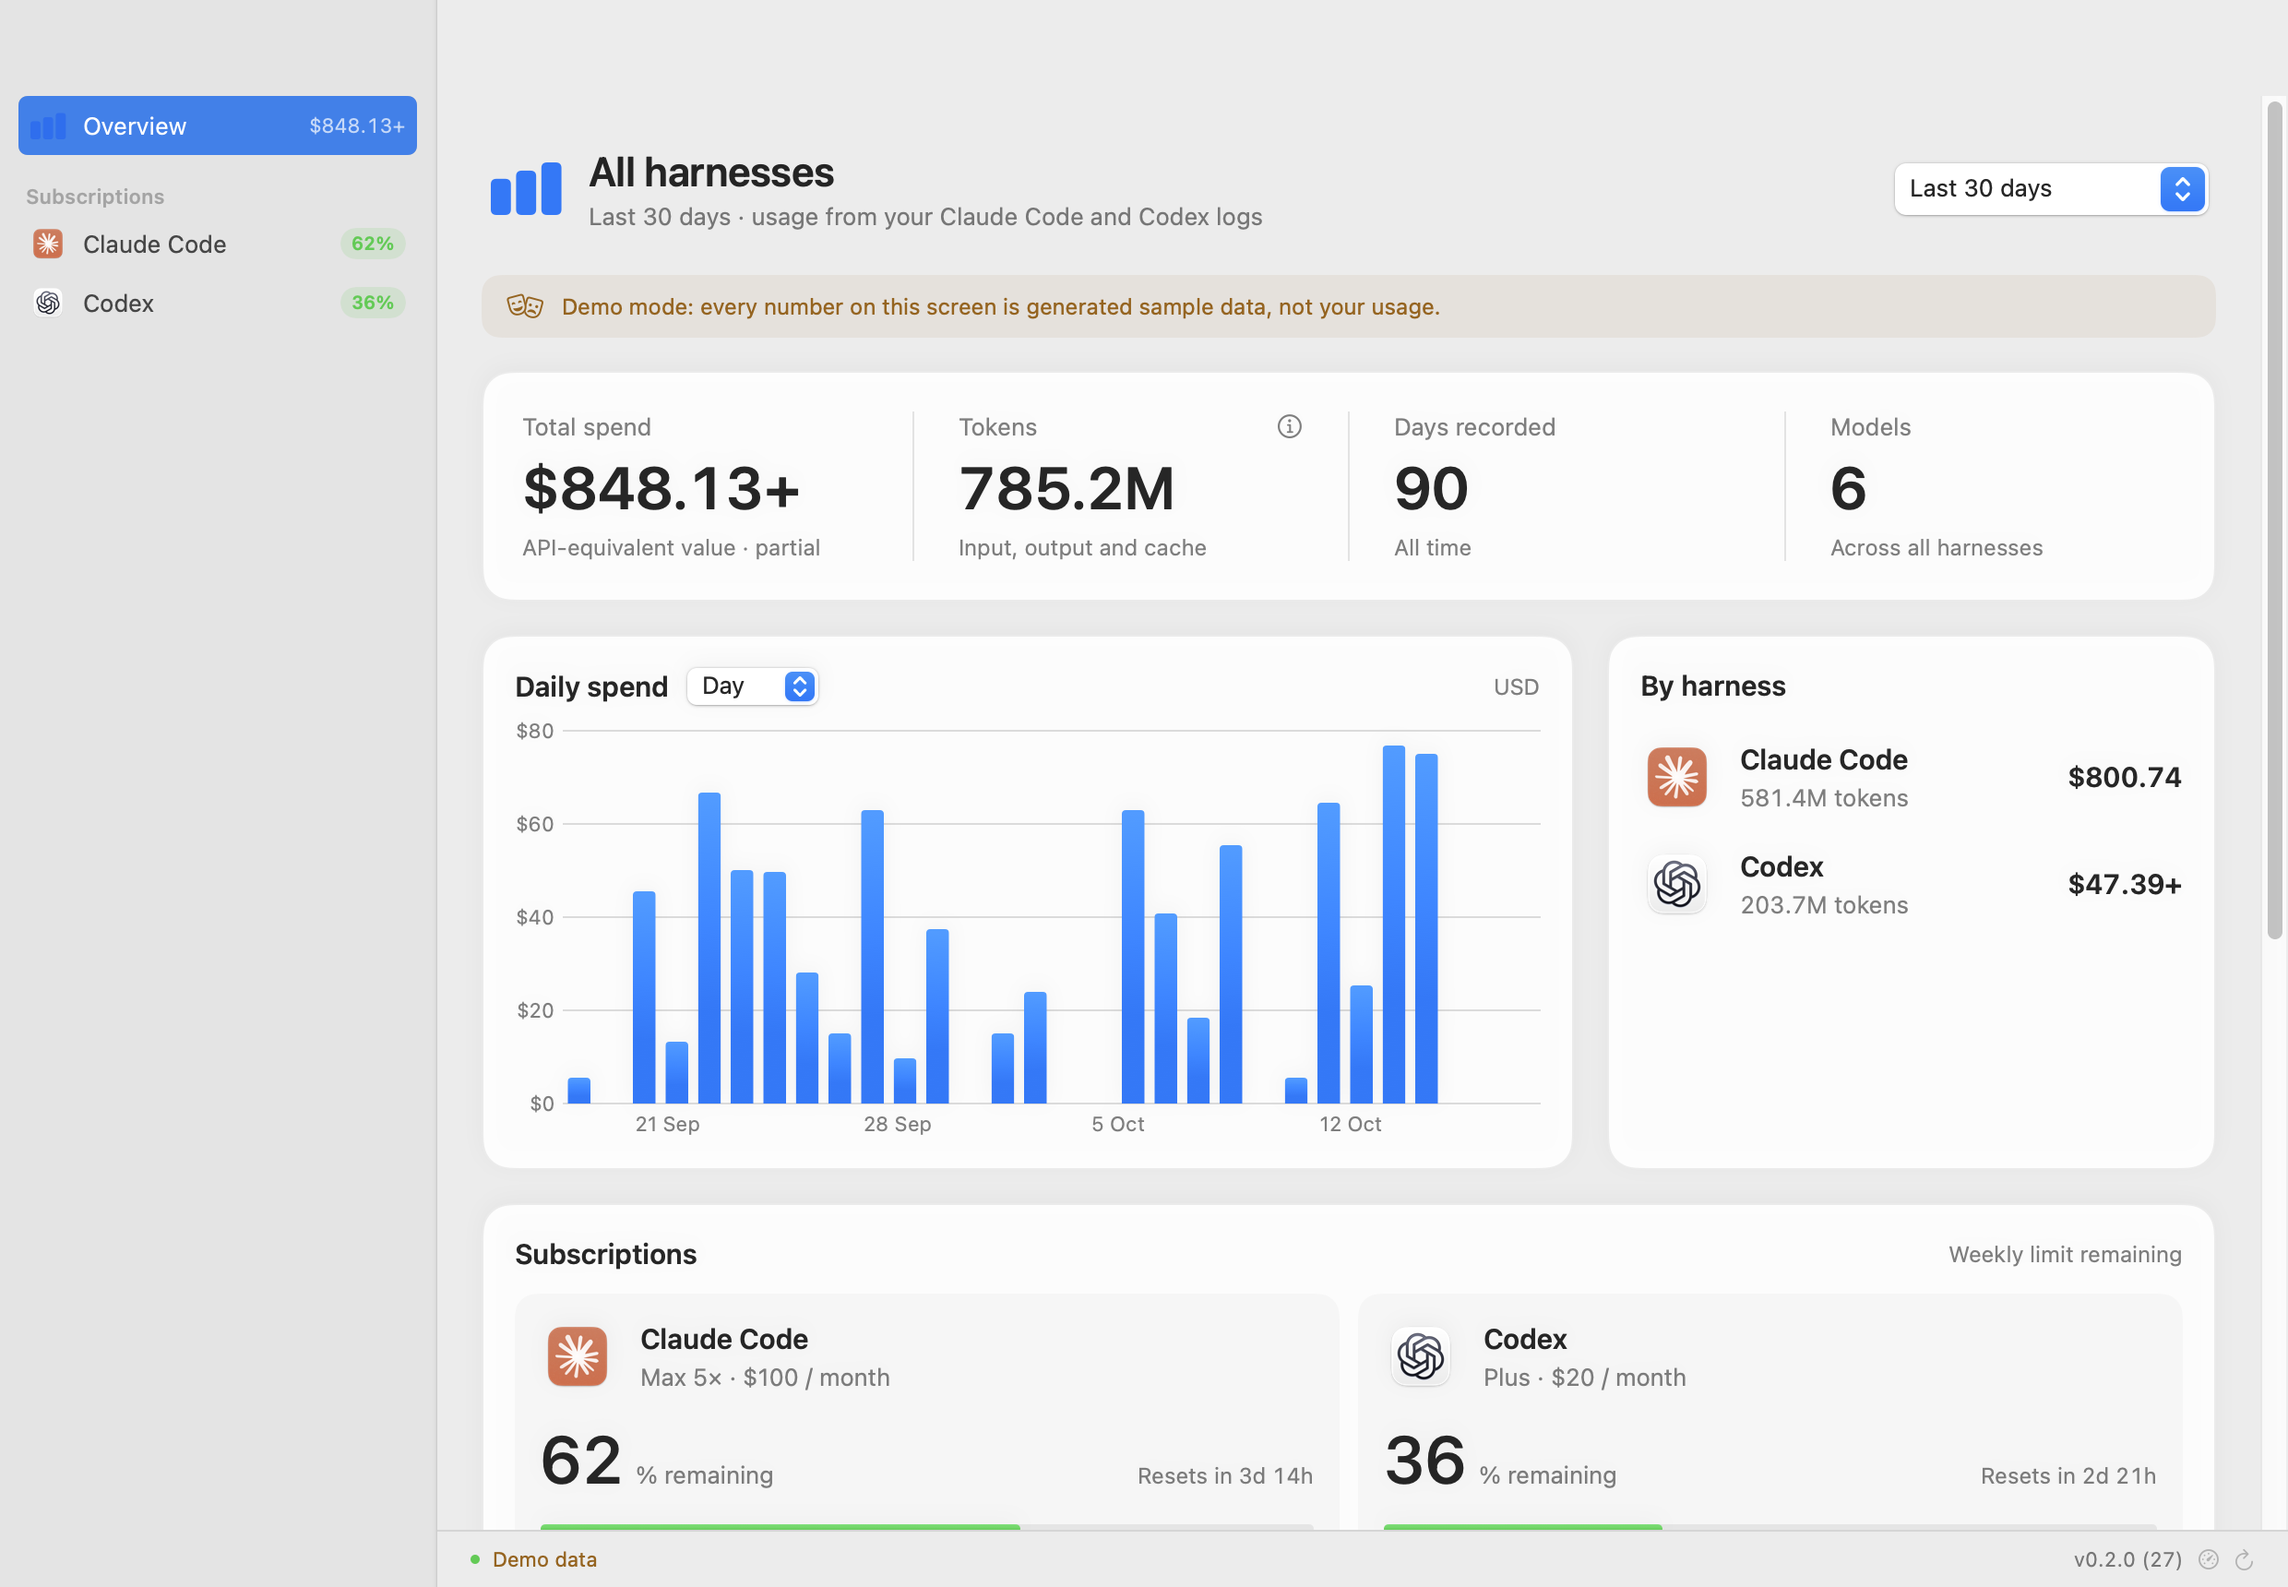
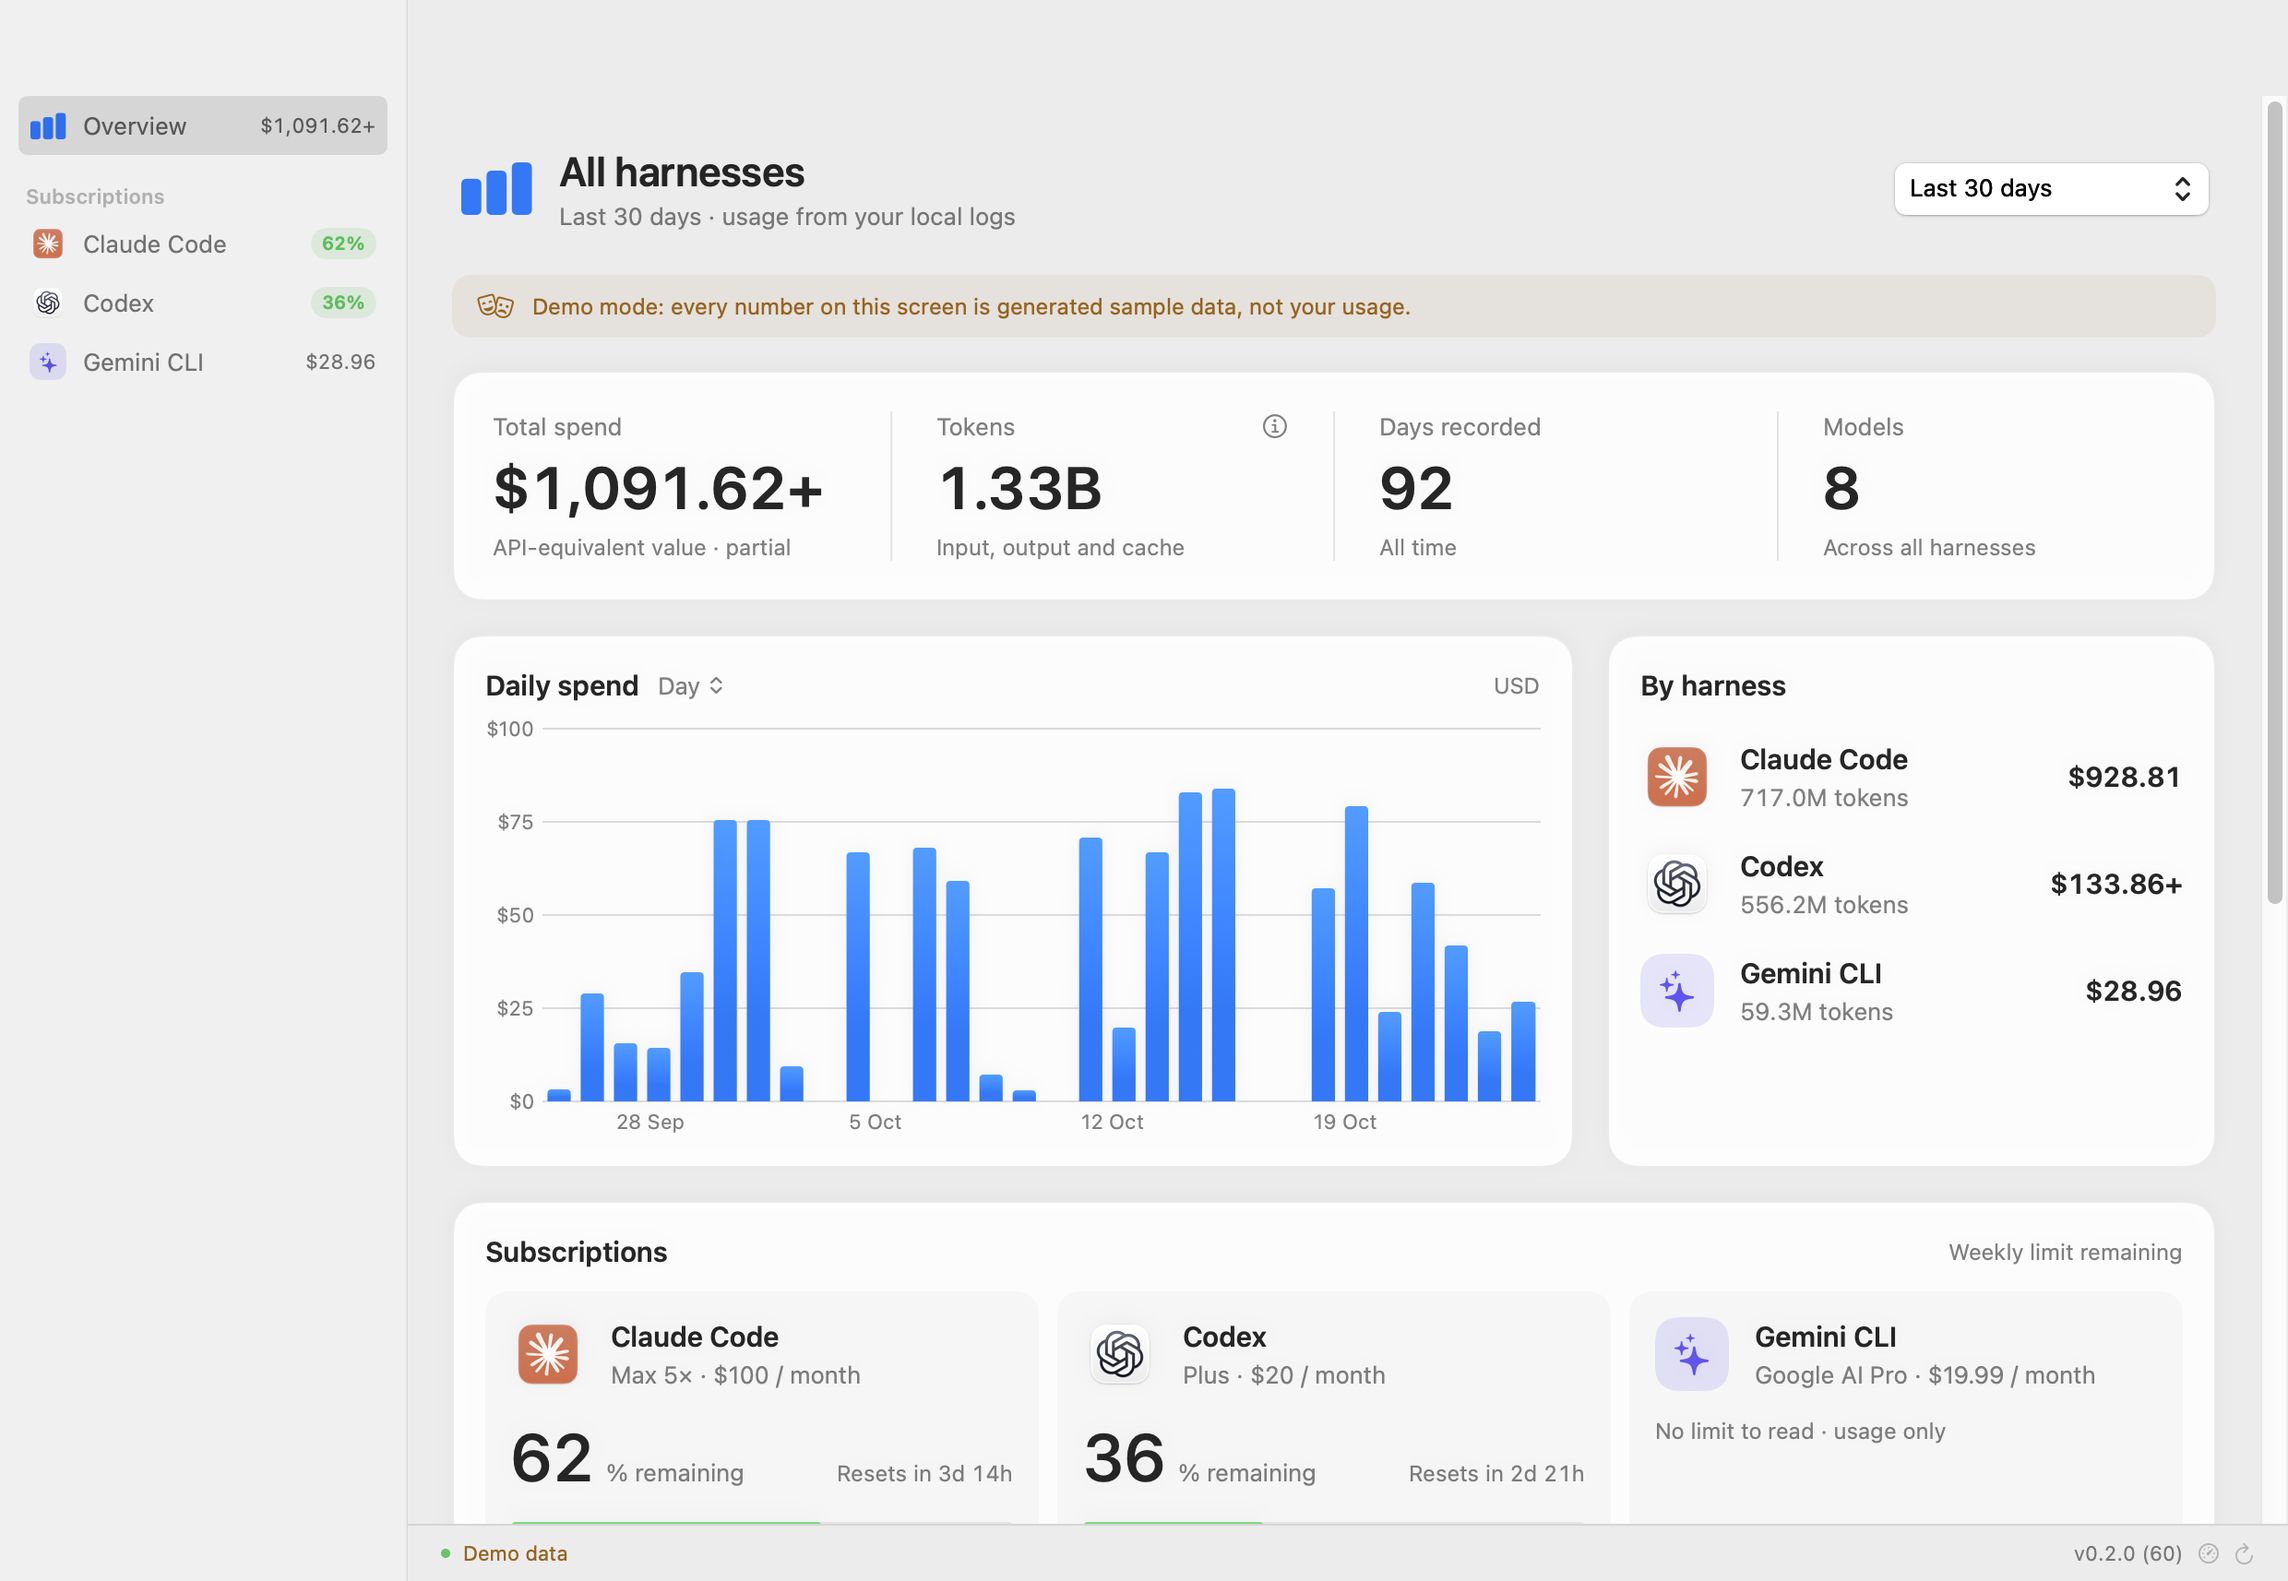
Bring the README and screenshots up to date with Gemini CLI
The README still described two harnesses, a stacked overview chart, a
popover with busiest agents, and a Settings → Sources tab that moved to
Data. It now covers Gemini CLI, stale readings, compressed Codex
sessions and when the env overrides apply. Screenshots are re-captured
from demo mode, now invisibly, with the Gemini page and popover added.

diff --git a/README.md b/README.md
@@ -4,9 +4,9 @@ A native macOS app for **Claude Code**, **Codex** and **Gemini CLI**: API-equiva
 models, subscription limits with pace and forecast, plan value, and a menu bar
 quota. Everything is read from files on your Mac by default.
 
-Burnless is [Agent Burn](https://github.com/Melvynx/agent-burn) focused on two
-harnesses: the same dashboard, quota charts, menu bar and settings, for Claude Code
-and Codex only. Its data engine is [ccusage](https://github.com/ccusage/ccusage).
+Burnless is [Agent Burn](https://github.com/Melvynx/agent-burn) focused on three
+harnesses: the same dashboard, quota charts, menu bar and settings, for Claude Code,
+Codex and Gemini CLI only. Its data engine is [ccusage](https://github.com/ccusage/ccusage).
 
 ![Overview (demo data)](docs/screenshots/overview.png)
 
@@ -14,9 +14,13 @@ and Codex only. Its data engine is [ccusage](https://github.com/ccusage/ccusage)
 | --- | --- | --- |
 | ![](docs/screenshots/claude.png) | ![](docs/screenshots/codex.png) | ![](docs/screenshots/menu-bar.png) |
 
-| Dark | Menu bar · Codex | Settings · Quotas |
+| Gemini CLI | Menu bar · Codex | Menu bar · Gemini |
 | --- | --- | --- |
-| ![](docs/screenshots/overview-dark.png) | ![](docs/screenshots/menu-bar-codex.png) | ![](docs/screenshots/settings-quotas.png) |
+| ![](docs/screenshots/gemini.png) | ![](docs/screenshots/menu-bar-codex.png) | ![](docs/screenshots/menu-bar-gemini.png) |
+
+| Dark | Claude Code · dark | Settings · Quotas |
+| --- | --- | --- |
+| ![](docs/screenshots/overview-dark.png) | ![](docs/screenshots/claude-dark.png) | ![](docs/screenshots/settings-quotas.png) |
 
 The layout follows the screenshots on Agent Burn's site: a page header, large
 numbers without icon badges, the system accent color and a flat menu bar
@@ -30,8 +34,8 @@ real usage.
 - **Claude**: 5-hour session and weekly limits side by side, each with remaining share,
   pace badge (`+10 pts ahead` / `−8 pts behind`), reset countdown and an until-reset chart
   with even pace, forecast and the locked-out span when you would run out early. A
-  one-line verdict ("On track." / "Session runs out ≈ 22:04."), model-scoped weekly
-  limits and extra usage credits.
+  one-line verdict ("Room to keep building" / "A little ahead of pace" / "Limit reached"),
+  model-scoped weekly limits and extra usage credits.
 - **Codex**: weekly quota with remaining, pace, reset time, used share, suggested daily
   pace, $ per percent, banked resets and the shorter window when Codex reports one. The
   chart range is selectable (Until reset, Reset to today, Today, Last 7 / 30 days). With
@@ -54,21 +58,24 @@ real usage.
 - **Avg tokens / $** and **Models**, as in Agent Burn.
 - **Days recorded**: distinct days with usage in all available history (not
   affected by the period).
-- **Daily spend**: Swift Charts histogram, stacked by harness in the overview,
-  with Day / Week / Month and hover details.
-- **By harness**: Claude Code and Codex spend, tokens and comparison bar. Click
-  one to open its view.
+- **Daily spend**: Swift Charts histogram with Day / Week / Month; hovering a bar
+  shows the split by harness in the overview.
+- **By harness**: Claude Code, Codex and Gemini CLI spend and tokens. Click one to
+  open its view.
 - **Models · Available source data**: models seen in your logs, with tokens,
   spend and share. You can search and sort them.
 
 Periods: Today, Yesterday, Reset to date, Week to date, This month, Last 7 days,
-Last 30 days (default), Year to date, All time. Navigation: Overview (with a
-Subscriptions card), Claude Code, Codex. Refresh with ⌘R; check limits now with ⇧⌘R.
+Last 30 days (default), Year to date, All time. Reset to date follows the harness's
+weekly window (on the overview, the one shown in the menu bar) and says when it falls
+back to 7 days. Navigation: Overview (with a Subscriptions card), Claude Code, Codex,
+Gemini CLI. Refresh with ⌘R; check limits now with ⇧⌘R.
 
-**Menu bar**: a flame with the weekly remaining of the harness you choose, and a popover
-with General / Codex / Claude tabs (spend, tokens, quota remaining, busiest agents, top
-models, weekly chart and usage details). Optional menu-bar-only mode, launch at login,
-background collection and update checks are in Settings.
+**Menu bar**: a flame with the weekly remaining of the harness you choose (`~62%` when
+the reading is old), and a popover with General / Claude / Codex / Gemini tabs: spend,
+tokens, weekly remaining and spend by harness, and per harness the plan, limit chart and
+details. Optional menu-bar-only mode, launch at login, background collection and update
+checks are in Settings.
 
 ## Install
 
@@ -117,13 +124,15 @@ Burnless only reads local history. It uses ccusage's resolution:
 
 | Harness | Default | Override |
 | --- | --- | --- |
-| Claude Code | `~/.config/claude/projects`, `~/.claude/projects` | `CLAUDE_CONFIG_DIR` (comma-separated) |
-| Codex | `~/.codex/sessions`, `~/.codex/archived_sessions` | `CODEX_HOME` (comma-separated) |
-| Gemini CLI | `~/.gemini/tmp/<project>/chats` | `GEMINI_DATA_DIR` (comma-separated) |
+| Claude Code | `$XDG_CONFIG_HOME/claude/projects` (`~/.config/claude`), `~/.claude/projects` | `CLAUDE_CONFIG_DIR` (comma-separated, `~` expanded) |
+| Codex | `~/.codex/sessions`, `~/.codex/archived_sessions` (plain and `.jsonl.zst`) | `CODEX_HOME` (comma-separated, used as typed) |
+| Gemini CLI | `~/.gemini/tmp/<project>/chats` | `GEMINI_DATA_DIR` (comma-separated, used as typed) |
 
-Settings → Sources shows the folders being read and lets you **Choose Folder…**
-for each harness (passed to the engine as the variables above). If one source is
-missing or fails, the other still works.
+Settings → Data → Sources shows the folders being read and lets you **Choose Folder…**
+for each harness; a folder chosen there replaces the variable. The variables only reach
+the app when it is started from a terminal (Finder and login items do not read your
+shell profile), so Choose Folder… is the usual way. If one source is missing or fails,
+the others still work.
 
 Privacy and safety:
 
@@ -147,7 +156,9 @@ network request:
   meters that belong to a different signed-in account.
 
 These are as fresh as the last time Claude Code or Codex wrote them; each card says how
-old its reading is. Settings → Quotas → **Read live limits** (off by default) also asks
+old its reading is. A reading older than six hours (half an hour for a session) is
+flagged as possibly out of date: the page names its time, the chart greys the span since
+it up to a Now rule, and the menu bar and sidebar show `~62%`. Settings → Quotas → **Read live limits** (off by default) also asks
 the providers once a minute, using the endpoints Codex and Claude Code call themselves:
 `chatgpt.com/backend-api/wham/usage` with the token in `~/.codex/auth.json`, and
 `api.anthropic.com/api/oauth/usage` with Claude Code's Keychain item
@@ -181,7 +192,7 @@ The engine (`engine/`) calls ccusage's own loaders. It does not reimplement the 
 - Days are grouped in your Mac's time zone (passed explicitly as `--timezone`), so
   DST days work correctly.
 
-Each row is a (source, local date, model) cell. Token fields mean the same thing for both sources:
+Each row is a (source, local date, model) cell. Token fields mean the same thing for every source:
 
 - `input`: input that was neither read from nor written to cache. Codex reports
   input *including* cache, so ccusage's `non_cached_input_tokens` normalizes it.
@@ -240,10 +251,10 @@ between the two runs.
 
 ## Troubleshooting
 
-- **"History folder not found"**: check Settings → Sources. Use *Choose Folder…* if your
+- **"History folder not found"**: check Settings → Data → Sources. Use *Choose Folder…* if your
   Claude config or Codex home is in a custom location.
 - **"Could not be read"**: the error is shown under the source in Settings. The other
-  source and the cached data still work.
+  sources and the cached data still work.
 - **"The Burnless engine was not found"**: rebuild with `./scripts/build-app.sh`. For
   `swift run`, build the engine first (`./scripts/dev.sh` does both), or set
   `BURNLESS_ENGINE=/path/to/burnless-engine`.
@@ -254,7 +265,8 @@ between the two runs.
 ## Demo mode
 
 `open dist/Burnless.app --args --demo` shows generated sample data with a visible
-banner. Demo data is never written to the cache. Screenshot options use environment
+banner. Demo data is never written to the cache, and demo mode uses its own settings
+(it neither reads nor changes yours). Captures render invisibly in the background. Screenshot options use environment
 variables (`BURNLESS_CAPTURE`, `BURNLESS_ROUTE`, `BURNLESS_PERIOD`,
 `BURNLESS_APPEARANCE`, `BURNLESS_WINDOW_SIZE`); see `scripts/capture.sh`.
 
